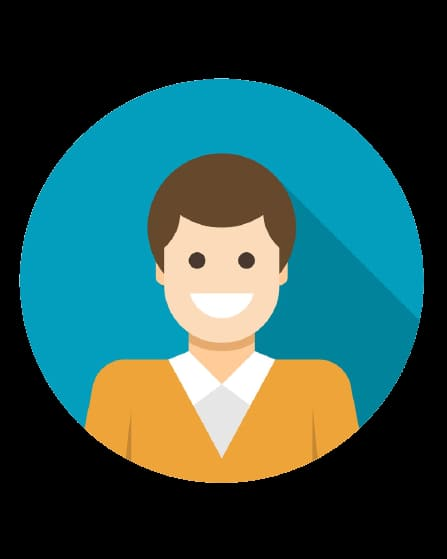
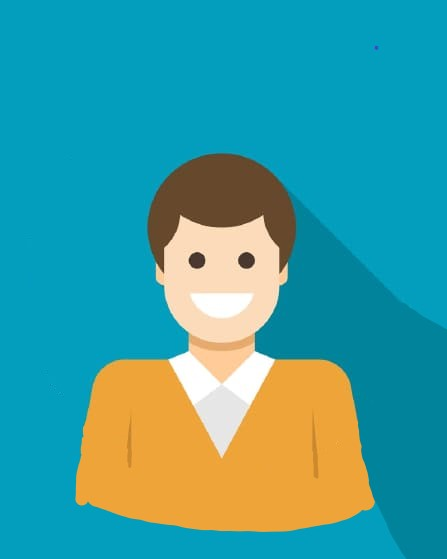
Sistemati dettagli stile
Corretta immagine profilo in offcanvas tonda
corretta immagine di default
cambiato bottoni di modifica e inserisci in "Salva"

diff --git a/css/login-form.css b/css/login-form.css
@@ -29,5 +29,9 @@ input[type=submit]{
 
 span{
     font-family: 'Questrial', sans-serif;
-
+    font-size: 21px;
+}
+span>a{
+    font-family: 'Questrial', sans-serif;
+    font-size: 21px !important;
 }

diff --git a/css/header.css b/css/header.css
@@ -134,6 +134,10 @@ header img {
     margin: 0 4px 0 4px ;
 }
 
+.iconalogin{
+    width: 70px;
+    clip-path: circle();
+}
 
 
 header img:hover {

diff --git a/template/header.php b/template/header.php
@@ -32,7 +32,7 @@
             <div class="offcanvas offcanvas-end" id="offcanvas">
                 <div class="offcanvas-header ">
                     <?php if(!empty($templateParams["user"])): ?>
-                        <img src="<?php echo UPLOAD_DIR.getImageOfUser($templateParams["user"]["immagine"])?>" alt="foto profilo utente">
+                        <img class="iconalogin" src="<?php echo UPLOAD_DIR.getImageOfUser($templateParams["user"]["immagine"])?>" alt="foto profilo utente">
                     <?php endif; ?>
                     <h2 class="offcanvas-title p-2"><?php echo $templateParams["user"]["nome"]?> <?php echo $templateParams["user"]["cognome"]?></h2>
                     <button type="button" class="btn-close text-reset" data-bs-dismiss="offcanvas"></button>
@@ -61,7 +61,7 @@
       		<img src="<?php echo UPLOAD_DIR.'posta.jpg'?>"  alt="casella di posta" />
 		    </a>
 	        </div>
-            <img class="iconalogin" data-bs-toggle="offcanvas" data-bs-target="#offcanvas" 
+            <img data-bs-toggle="offcanvas" data-bs-target="#offcanvas" 
              src="<?php echo UPLOAD_DIR.getImageOfUser($templateParams["user"]["immagine"])?>" alt="">
         <?php endif; ?>
     </div>

diff --git a/template/aggiungi_recensione.php b/template/aggiungi_recensione.php
@@ -3,13 +3,13 @@
     <head>
         <link rel="stylesheet" type="text/css" href="./css/dati_utente.css" /> 
     </head>
-        <div class="container">
-            <div class="float-start">
-                <a class="text-decoration-none" onclick="goBack()">
-                    <img class="img-fluid ps-1 freccia " src="./icons/freccia.png" width="40" alt="goBack" />
-                </a>
-            </div>
+    <div class="row col-sm-1">
+        <div class="col-sm-1">
+            <a class="col-3"  onclick="goBack()">
+            <img class="freccia"id = "freccia"src="./icons/freccia.png" alt="freccia indietro">
+            </a>
         </div>
+    </div>
     <form action="lista_recensioni.php" method="POST" enctype="multipart/form-data">
         <section class="text-center">
             <h2>Aggiungi una recensione</h2>

diff --git a/template/registrazione.php b/template/registrazione.php
@@ -139,7 +139,7 @@
     </article>  
       <div class="pb-3 text-center button">
         
-        <input id="submit" type="submit" name="submit" value="<?php echo $azione?>"/>
+        <input id="submit" type="submit" name="submit" value="Salva"/>
         <input type="hidden" name="action" value="<?php echo $azione?>"/>
       </div>
   <input type="hidden" name="oldimg" value="<?php echo $immagine?>" />
